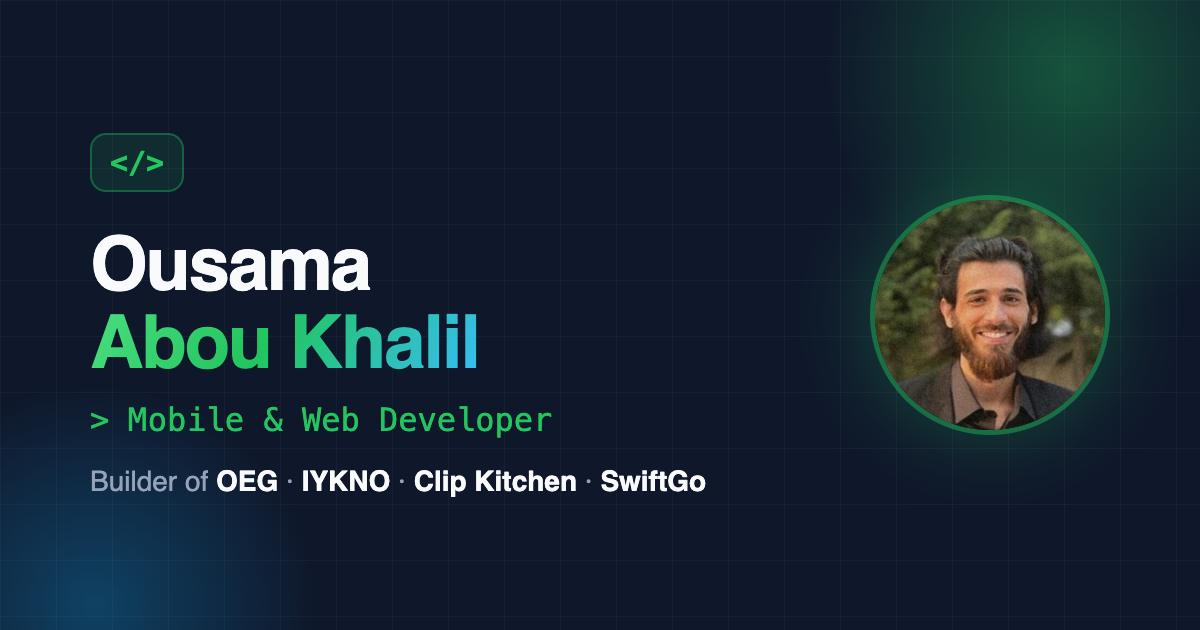
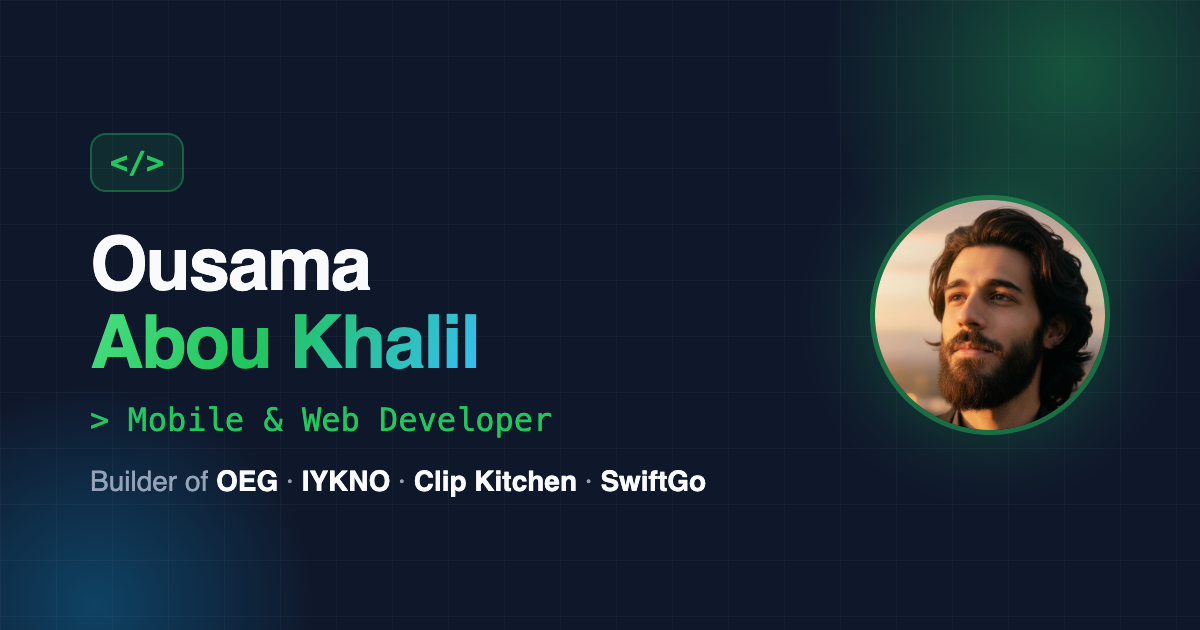
Feature BeSweet and Maison du Crepe, new profile photo, CEO reference testimonial

Changed region(s): [[0.7092, 0.3016, 0.925, 0.6937]]

diff --git a/index.html b/index.html
@@ -360,6 +360,72 @@
             </div>
           </article>
 
+          <!-- BeSweet -->
+          <article class="app-card reveal" data-tilt>
+            <div class="app-info">
+              <span class="app-tag" style="--tag:#F59E0B">Live Website</span>
+              <div class="app-head">
+                <img class="app-icon" src="assets/besweet-icon.png" alt="BeSweet logo" width="56" height="56" loading="lazy" />
+                <h3 class="app-name">BeSweet</h3>
+              </div>
+              <p class="app-desc">
+                Crêpes, waffles and sweet moments. A dessert shop website with full
+                online ordering for pickup or delivery, live opening hours, multilingual
+                support and a polished dark theme.
+              </p>
+              <ul class="app-points">
+                <li>Online ordering with cart &amp; checkout</li>
+                <li>Multilingual UI &amp; light/dark theming</li>
+                <li>Fast static deploy on Netlify</li>
+              </ul>
+              <div class="chip-row">
+                <span class="chip">JavaScript</span><span class="chip">Netlify</span>
+              </div>
+              <div class="store-links">
+                <a class="store-btn" href="https://besweet.netlify.app" target="_blank" rel="noopener">
+                  <svg width="16" height="16" viewBox="0 0 24 24" fill="none" stroke="currentColor" stroke-width="2" stroke-linecap="round" stroke-linejoin="round" aria-hidden="true"><circle cx="12" cy="12" r="10"/><path d="M2 12h20M12 2a15.3 15.3 0 0 1 4 10 15.3 15.3 0 0 1-4 10 15.3 15.3 0 0 1-4-10 15.3 15.3 0 0 1 4-10z"/></svg>
+                  besweet.netlify.app
+                </a>
+              </div>
+            </div>
+            <div class="app-visual" style="--glow:#F59E0B">
+              <img class="store-shot" src="assets/besweet-shot.webp" alt="BeSweet website: crepes, waffles and sweet moments" loading="lazy" />
+            </div>
+          </article>
+
+          <!-- Maison du Crepe -->
+          <article class="app-card alt reveal" data-tilt>
+            <div class="app-info">
+              <span class="app-tag" style="--tag:#FB923C">Live Website</span>
+              <div class="app-head">
+                <img class="app-icon" src="assets/maison-icon.jpg" alt="Maison du Crepe logo" width="56" height="56" loading="lazy" />
+                <h3 class="app-name">Maison du Cr&ecirc;pe</h3>
+              </div>
+              <p class="app-desc">
+                Made fresh, dripping with love. An app-style ordering website for a
+                cr&ecirc;perie in Sour, South Lebanon: menu browsing, search, cart and
+                order tracking, built for mobile first.
+              </p>
+              <ul class="app-points">
+                <li>App-like navigation: menu, search, cart, orders</li>
+                <li>Online ordering for pickup &amp; delivery</li>
+                <li>Fast static deploy on Netlify</li>
+              </ul>
+              <div class="chip-row">
+                <span class="chip">JavaScript</span><span class="chip">Netlify</span>
+              </div>
+              <div class="store-links">
+                <a class="store-btn" href="https://maison-du-crepe.netlify.app" target="_blank" rel="noopener">
+                  <svg width="16" height="16" viewBox="0 0 24 24" fill="none" stroke="currentColor" stroke-width="2" stroke-linecap="round" stroke-linejoin="round" aria-hidden="true"><circle cx="12" cy="12" r="10"/><path d="M2 12h20M12 2a15.3 15.3 0 0 1 4 10 15.3 15.3 0 0 1-4 10 15.3 15.3 0 0 1-4-10 15.3 15.3 0 0 1 4-10z"/></svg>
+                  maison-du-crepe.netlify.app
+                </a>
+              </div>
+            </div>
+            <div class="app-visual" style="--glow:#FB923C">
+              <img class="store-shot" src="assets/maison-shot.webp" alt="Maison du Crepe website: made fresh, dripping with love" loading="lazy" />
+            </div>
+          </article>
+
         </div>
       </div>
     </section>
@@ -515,26 +581,6 @@
             <a class="pc-link" href="https://github.com/OusamaAbouKhalil/Coffeeshop-onlineDB" target="_blank" rel="noopener">
               <svg width="14" height="14" viewBox="0 0 24 24" fill="currentColor" aria-hidden="true"><path d="M12 .5C5.65.5.5 5.65.5 12c0 5.08 3.29 9.39 7.86 10.91.58.1.79-.25.79-.55v-2.17c-3.2.7-3.87-1.37-3.87-1.37-.52-1.33-1.28-1.68-1.28-1.68-1.04-.71.08-.7.08-.7 1.15.08 1.76 1.18 1.76 1.18 1.03 1.76 2.69 1.25 3.34.96.1-.74.4-1.25.72-1.54-2.55-.29-5.23-1.28-5.23-5.68 0-1.26.45-2.28 1.18-3.09-.12-.29-.51-1.46.11-3.05 0 0 .97-.31 3.17 1.18a11 11 0 0 1 5.78 0c2.2-1.49 3.16-1.18 3.16-1.18.63 1.59.24 2.76.12 3.05.74.81 1.18 1.83 1.18 3.09 0 4.41-2.69 5.38-5.25 5.67.41.35.77 1.04.77 2.1v3.12c0 .3.21.66.8.55A11.5 11.5 0 0 0 23.5 12C23.5 5.65 18.35.5 12 .5z"/></svg>
               View Code
-            </a>
-          </article>
-          <article class="project-card reveal" data-cat="web">
-            <div class="pc-icon" aria-hidden="true"><svg width="22" height="22" viewBox="0 0 24 24" fill="none" stroke="currentColor" stroke-width="2" stroke-linecap="round" stroke-linejoin="round"><path d="M12 2l3 7h7l-5.5 4.5L18 21l-6-4-6 4 1.5-7.5L2 9h7z"/></svg></div>
-            <h3>BeSweet</h3>
-            <p>Crepes and waffles shop site with online ordering for pickup or delivery.</p>
-            <div class="chip-row"><span class="chip">JavaScript</span><span class="chip">Netlify</span></div>
-            <a class="pc-link" href="https://besweet.netlify.app" target="_blank" rel="noopener">
-              <svg width="14" height="14" viewBox="0 0 24 24" fill="none" stroke="currentColor" stroke-width="2" stroke-linecap="round" stroke-linejoin="round" aria-hidden="true"><circle cx="12" cy="12" r="10"/><path d="M2 12h20M12 2a15.3 15.3 0 0 1 4 10 15.3 15.3 0 0 1-4 10 15.3 15.3 0 0 1-4-10 15.3 15.3 0 0 1 4-10z"/></svg>
-              Visit Site
-            </a>
-          </article>
-          <article class="project-card reveal" data-cat="web">
-            <div class="pc-icon" aria-hidden="true"><svg width="22" height="22" viewBox="0 0 24 24" fill="none" stroke="currentColor" stroke-width="2" stroke-linecap="round" stroke-linejoin="round"><path d="M12 3a4 4 0 0 0-4 4c0 1.5.8 2.6 2 3.3V12h4v-1.7c1.2-.7 2-1.8 2-3.3a4 4 0 0 0-4-4z"/><path d="M8 14h8l-1 7H9z"/></svg></div>
-            <h3>Maison du Crêpe</h3>
-            <p>Crepes, waffles and shakes site with pickup and delivery ordering.</p>
-            <div class="chip-row"><span class="chip">JavaScript</span><span class="chip">Netlify</span></div>
-            <a class="pc-link" href="https://maison-du-crepe.netlify.app" target="_blank" rel="noopener">
-              <svg width="14" height="14" viewBox="0 0 24 24" fill="none" stroke="currentColor" stroke-width="2" stroke-linecap="round" stroke-linejoin="round" aria-hidden="true"><circle cx="12" cy="12" r="10"/><path d="M2 12h20M12 2a15.3 15.3 0 0 1 4 10 15.3 15.3 0 0 1-4 10 15.3 15.3 0 0 1-4-10 15.3 15.3 0 0 1 4-10z"/></svg>
-              Visit Site
             </a>
           </article>
           <article class="project-card reveal" data-cat="web">
@@ -705,6 +751,21 @@
         <p class="section-sub reveal">Real store reviews from apps I built.</p>
 
         <div class="reviews-grid">
+          <figure class="review-card wide reveal">
+            <span class="review-badge">
+              <svg width="14" height="14" viewBox="0 0 24 24" fill="none" stroke="currentColor" stroke-width="2" stroke-linecap="round" stroke-linejoin="round" aria-hidden="true"><rect x="2" y="7" width="20" height="14" rx="2"/><path d="M16 7V5a2 2 0 0 0-2-2h-4a2 2 0 0 0-2 2v2"/></svg>
+              Employer Reference
+            </span>
+            <blockquote>
+              "Ousama Abou Khalil has demonstrated professionalism, technical expertise,
+              and a strong commitment to delivering high-quality work. He has contributed
+              to the development and enhancement of our web and mobile platforms...
+              His contributions have played an important role in the progress of our
+              software products."
+            </blockquote>
+            <figcaption>Fayez Nicolas Chaar · CEO &amp; Founder, Our Easy Game LLC · Letter of Appreciation</figcaption>
+          </figure>
+
           <figure class="review-card reveal">
             <div class="review-stars" aria-label="5 out of 5 stars">
               <svg width="16" height="16" viewBox="0 0 24 24" fill="currentColor" aria-hidden="true"><path d="M12 2l3 7h7l-5.5 4.5L18 21l-6-4-6 4 1.5-7.5L2 9h7z"/></svg>

diff --git a/styles.css b/styles.css
@@ -803,6 +803,24 @@ a { color: inherit; text-decoration: none; }
   margin-bottom: 18px;
 }
 .review-card figcaption { font-size: 13px; color: var(--fg-muted); }
+.review-card.wide { grid-column: 1 / -1; border-color: rgba(34, 197, 94, 0.3); }
+.review-badge {
+  display: inline-flex;
+  align-items: center;
+  gap: 7px;
+  align-self: flex-start;
+  font-size: 12.5px;
+  font-weight: 600;
+  letter-spacing: 0.04em;
+  text-transform: uppercase;
+  color: var(--accent);
+  background: var(--accent-soft);
+  border: 1px solid rgba(34, 197, 94, 0.3);
+  border-radius: 999px;
+  padding: 5px 13px;
+  margin-bottom: 16px;
+}
+.review-card.wide blockquote { font-size: 16.5px; }
 
 /* ============ Contact form ============ */
 .contact-form {
